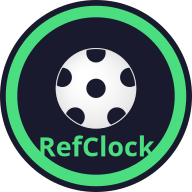
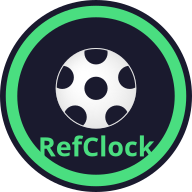
Increase patch size 20%

diff --git a/generate-icons.js b/generate-icons.js
@@ -45,7 +45,7 @@ function drawIcon(size) {
   ctx.arc(bx, by, ballR - 1, 0, Math.PI * 2);
   ctx.clip();
 
-  const patchR    = ballR * 0.24;
+  const patchR    = ballR * 0.288;
   const patchDist = ballR * 0.88; // patches 25% clipped by ball edge
   ctx.fillStyle = '#1a1a2e';
 
